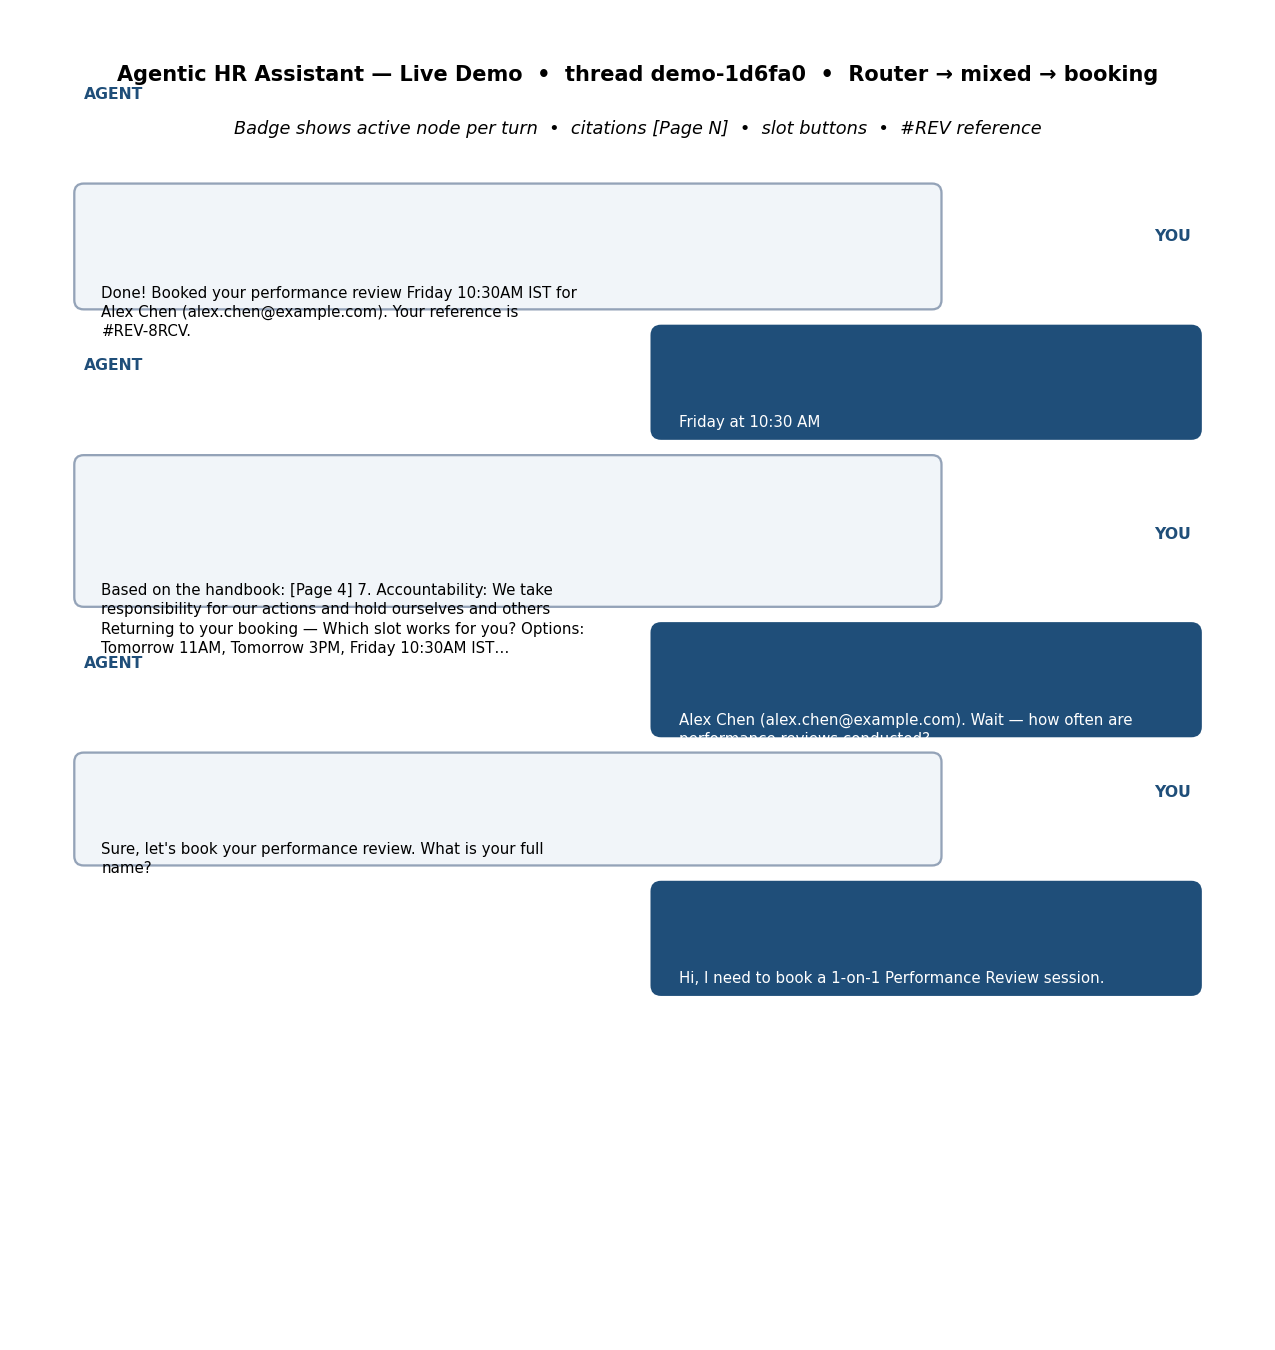
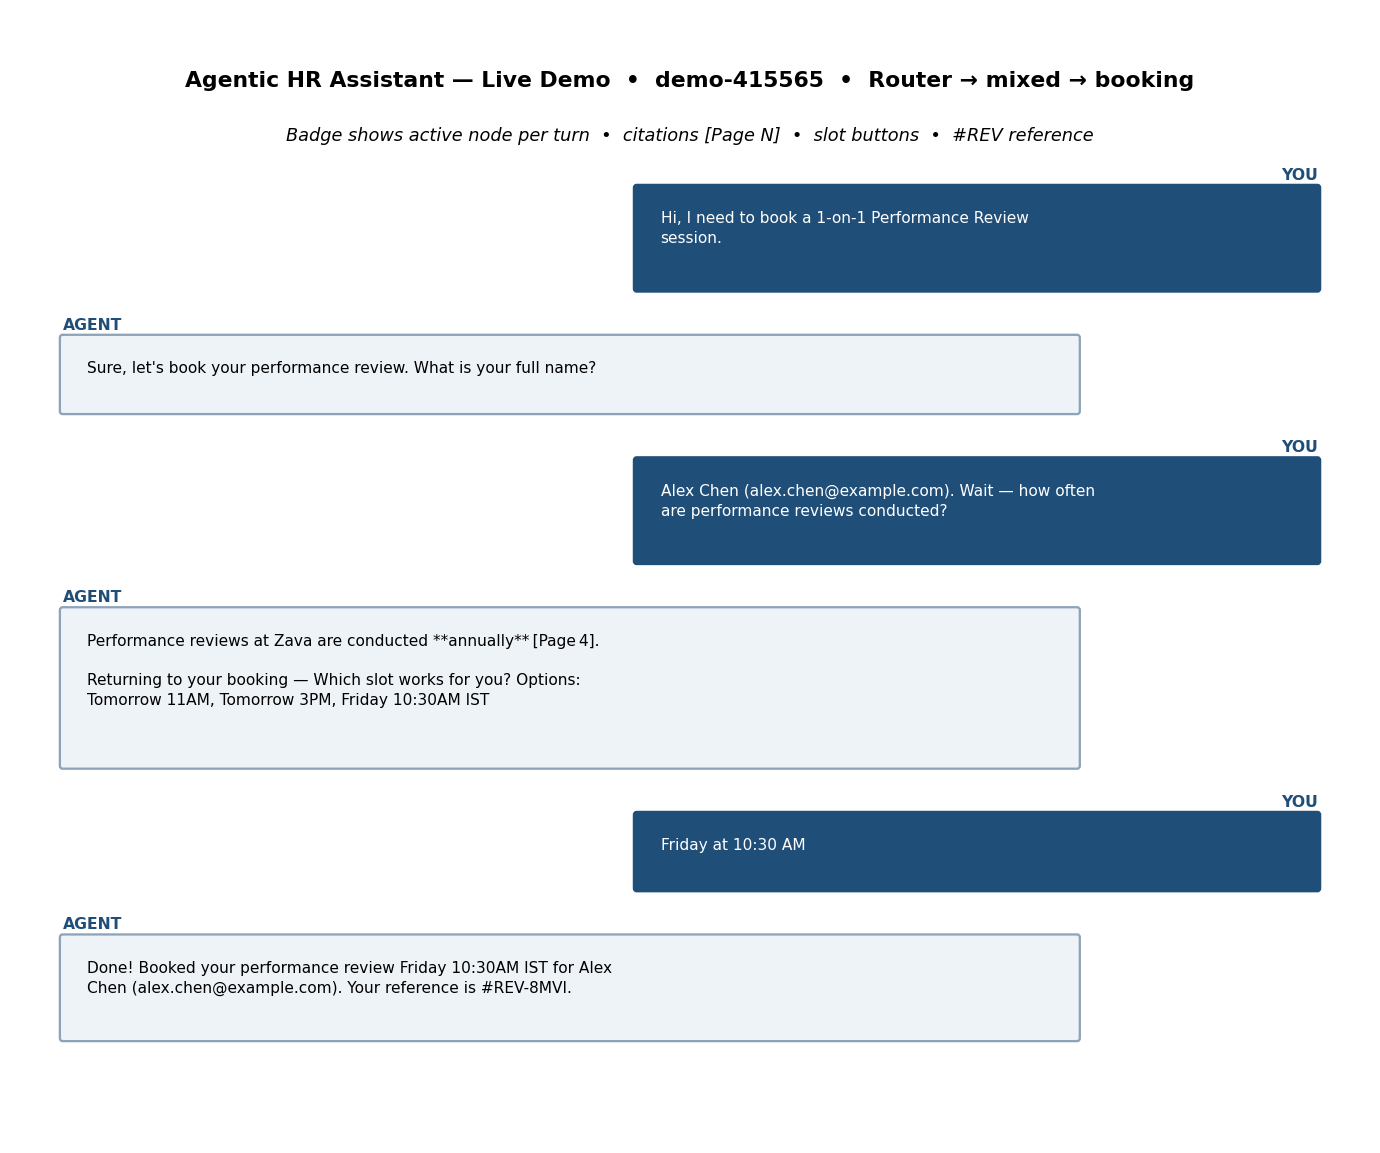
docs: fix chat screenshot layout and sync README demo with live Groq output

diff --git a/scripts/make_screenshot.py b/scripts/make_screenshot.py
@@ -1,36 +1,83 @@
-"""Render chat UI screenshot mock from real demo_transcript.json."""
+"""Render chat demo screenshot from docs/demo_transcript.json (chronological, no overflow)."""
 import json
+import textwrap
 from pathlib import Path
+
 import matplotlib
 matplotlib.use("Agg")
 import matplotlib.pyplot as plt
+import matplotlib.patches as mpatches
 
 ROOT = Path(__file__).resolve().parents[1]
-data = json.loads((ROOT / "docs" / "demo_transcript.json").read_text())
-turns = [
+data = json.loads((ROOT / "docs" / "demo_transcript.json").read_text(encoding="utf-8"))
+turns_api = data["turns"]
+
+# Chronological conversation: oldest first, top to bottom.
+convo = [
     ("user", "Hi, I need to book a 1-on-1 Performance Review session."),
-    ("agent", data["turns"][0]["reply"]),
-    ("user", "Alex Chen (alex.chen@example.com). Wait — how often are performance reviews conducted?"),
-    ("agent", data["turns"][1]["reply"][:420] + "…"),
+    ("agent", turns_api[0]["reply"]),
+    ("user", "Alex Chen (alex.chen@example.com). Wait \u2014 how often are performance reviews conducted?"),
+    ("agent", turns_api[1]["reply"]),
     ("user", "Friday at 10:30 AM"),
-    ("agent", data["turns"][2]["reply"]),
+    ("agent", turns_api[2]["reply"]),
 ]
-fig, ax = plt.subplots(figsize=(8.5, 9))
-ax.set_xlim(0, 10); ax.set_ylim(0, len(turns) * 1.6 + 1.5); ax.axis("off")
-ax.text(5, len(turns)*1.6+1.0, "Agentic HR Assistant — Live Demo  •  thread " + data["thread_id"] + "  •  Router → mixed → booking", ha="center", fontsize=10, fontweight="bold")
-ax.text(5, len(turns)*1.6+0.55, "Badge shows active node per turn  •  citations [Page N]  •  slot buttons  •  #REV reference", ha="center", fontsize=8.5, style="italic")
-y = len(turns)*1.6 - 0.2
-for role, txt in reversed(turns):
+
+WRAP_USER, WRAP_AGENT = 52, 66
+LINE_H = 0.19
+PAD = 0.32
+
+
+def wrapped_lines(txt, width):
+    lines = []
+    for para in str(txt).split("\n"):
+        lines.extend(textwrap.wrap(para, width) or [""])
+    return lines
+
+
+items = []
+for role, txt in convo:
+    w = WRAP_USER if role == "user" else WRAP_AGENT
+    lines = wrapped_lines(txt, w)
+    # Trim very long RAG answers so the image stays readable.
+    if role == "agent" and len(lines) > 9:
+        lines = lines[:8] + ["\u2026"]
+    items.append((role, lines))
+
+heights = [PAD + len(lines) * LINE_H for _, lines in items]
+gap = 0.34
+title_h = 1.15
+total_h = title_h + sum(heights) + gap * len(items) + 0.3
+
+fig, ax = plt.subplots(figsize=(9.2, total_h))
+ax.set_xlim(0, 10)
+ax.set_ylim(0, total_h)
+ax.axis("off")
+
+ax.text(5, total_h - 0.45,
+        f"Agentic HR Assistant \u2014 Live Demo  \u2022  {data['thread_id']}  \u2022  Router \u2192 mixed \u2192 booking",
+        ha="center", fontsize=10.5, fontweight="bold")
+ax.text(5, total_h - 0.82,
+        "Badge shows active node per turn  \u2022  citations [Page N]  \u2022  slot buttons  \u2022  #REV reference",
+        ha="center", fontsize=8.5, style="italic")
+
+y = total_h - title_h
+for (role, lines), h in zip(items, heights):
+    y -= h
     is_user = role == "user"
-    x, w, fc, ec = (5.2, 4.5, "#1f4e79", "#1f4e79") if is_user else (0.3, 7.2, "#f1f5f9", "#94a3b8")
-    ax.text(x + (w if is_user else 0), y+1.05, "YOU" if is_user else "AGENT", fontsize=7.5, fontweight="bold", color="#1f4e79", ha="right" if is_user else "left")
-    ax.text(x, y, "", fontsize=1)
-    import textwrap
-    wrapped = "\n".join(textwrap.wrap(txt, 62))
-    lines = wrapped.count("\n") + 1
-    h = max(0.55, lines * 0.22)
-    import matplotlib.patches as mpatches
-    ax.add_patch(mpatches.FancyBboxPatch((x, y-h), w, h+0.25, boxstyle="round,pad=0.08", fc=fc if not is_user else "#1f4e79", ec=ec, lw=1.1))
-    ax.text(x+0.15, y-h+0.12, wrapped, va="top", ha="left", fontsize=7.2, color="white" if is_user else "black", linespacing=1.35)
-    y -= (h + 0.55)
-fig.tight_layout(); fig.savefig(ROOT / "docs" / "screenshot_chat.png", dpi=150); print("saved screenshot_chat.png")
+    if is_user:
+        x, w = 4.6, 5.1
+        fc, ec, tc = "#1f4e79", "#1f4e79", "white"
+        ax.text(x + w, y + h + 0.06, "YOU", ha="right", fontsize=7.5, fontweight="bold", color="#1f4e79")
+    else:
+        x, w = 0.3, 7.6
+        fc, ec, tc = "#eef3f8", "#8fa3b8", "black"
+        ax.text(x, y + h + 0.06, "AGENT", ha="left", fontsize=7.5, fontweight="bold", color="#1f4e79")
+    ax.add_patch(mpatches.FancyBboxPatch((x, y), w, h, boxstyle="round,pad=0.02",
+                                         fc=fc, ec=ec, lw=1.1))
+    ax.text(x + 0.18, y + h - 0.16, "\n".join(lines), va="top", ha="left",
+            fontsize=7.4, color=tc, linespacing=1.4, wrap=False)
+    y -= gap
+
+fig.tight_layout()
+fig.savefig(ROOT / "docs" / "screenshot_chat.png", dpi=150)
+print("saved docs/screenshot_chat.png")

diff --git a/README.md b/README.md
@@ -17,12 +17,12 @@ User:  Hi, I need to book a 1-on-1 Performance Review session.
 Agent [booking]: Sure, let's book your performance review. What is your full name?
 
 User:  Alex Chen (alex.chen@example.com). Wait, before that, how often are performance reviews conducted?
-Agent [mixed, citations=[4,8]]: Based on the handbook: [Page 4] ... Performance reviews are conducted annually ...
+Agent [mixed, citations=[4]]: Performance reviews at Zava are conducted **annually** [Page 4].
         Returning to your booking — Which slot works for you? Options: Tomorrow 11AM, Tomorrow 3PM, Friday 10:30AM IST
         booking={name: Alex Chen, email: alex.chen@example.com}
 
 User:  Friday at 10:30 AM
-Agent [booking]: Done! Booked your performance review Friday 10:30AM IST for Alex Chen (alex.chen@example.com). Reference #REV-8RCV.
+Agent [booking]: Done! Booked your performance review Friday 10:30AM IST for Alex Chen (alex.chen@example.com). Reference #REV-8MVI.
 ```
 
 Full JSON: `docs/demo_transcript.json`. Verification log: `docs/verify_log.txt` (14/14 PASS).
